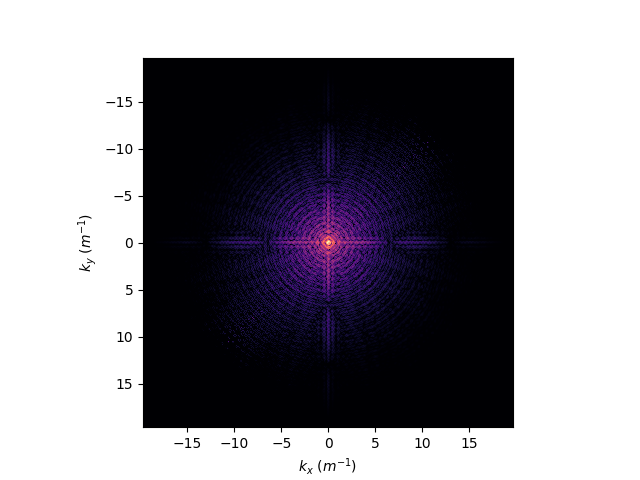
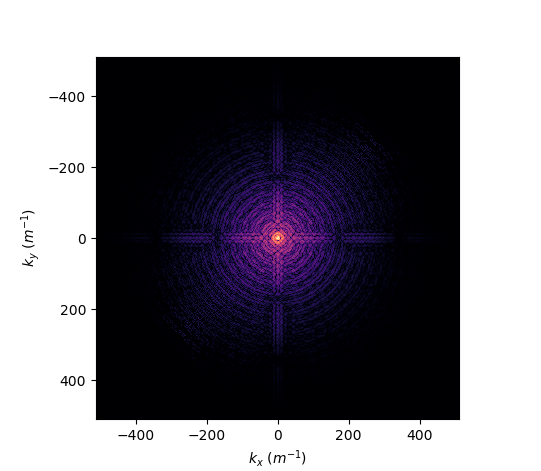
idk some stuff i guess

diff --git a/src/project.py b/src/project.py
@@ -18,7 +18,7 @@ from .modelpf import ModelPupilFunction
 PI     = np.pi
 TWO_PI = 2. * PI
 ps     = 2.  # padding scale factor
-N_samples = 512
+N_samples = 4096
 
 # DIAMETERS ARE IN METERS
 pupil  = SimplePupilFunction(diameter=6.5, samples=N_samples, padscale=ps)
@@ -26,7 +26,7 @@ dirty  = DirtySimplePupilFunction(diameter=6.5, samples=N_samples, padscale=ps)
 caspup = CassegrainPupilFunction(diameter=6.5, b=1.5, samples=N_samples, padscale=ps)
 dcaspf = DirtyCassegrainPupilFunction(diameter=6.5, b=1.5, samples=N_samples, padscale=ps)
 square = SquarePupilFunction(diameter=6.5, samples=N_samples, padscale=ps)
-model  = ModelPupilFunction(diameter=6.5, b=1.5, samples=N_samples, padscale=ps)
+model  = ModelPupilFunction(diameter=.250, b=.110, samples=N_samples, padscale=ps)
 gauss  = GaussianRandomField(pupil, lambda s: np.where(s > 1e-15, (1. / s)**(3.0), 0.))
 
 #### Memory management ####

diff --git a/src/modelpf.py b/src/modelpf.py
@@ -12,7 +12,7 @@ class ModelPupilFunction(AbstractPupilFunction):
     - W(x, y) = 0 for no phase shifting
     '''
 
-    strut_width = 0.05
+    strut_width = 0.04
 
     def pFunc(self, x, y):
         pass1 = np.where((x)**2 + (y)**2 <= (self.radius())**2, 1., 0.)
@@ -23,3 +23,13 @@ class ModelPupilFunction(AbstractPupilFunction):
 
     def wFunc(self, x, y):
         return np.zeros((self.samples, self.samples))
+
+    def coherence_length(self, wav, theta, path=50, cn20=1e-17):
+        '''
+        path:  Path distance through the atmosphere (in km)
+        theta: Zenith angle (0 to π/2)
+        wav:   Wavelength of light (in nm)
+        '''
+
+        a = 0.185
+

diff --git a/src/gaussianrndf.py b/src/gaussianrndf.py
@@ -28,8 +28,13 @@ class GaussianRandomField(object):
     def Pk(self, kx, ky):
         return np.where(kx**2. + ky**2. > 0., (self.Pk2((kx**2. + ky**2.)**0.5))**0.5, 0.0)
 
-    def randomfield(self):
-        noise = fftshift(fft2(np.random.normal(size = (self.samples, self.samples))))
+    def randomfield(self, diameter):
+        r0 = 20e-2 # coherence
+        a  = 0.162
+
+        phase = a * (diameter / r0)**(5/6)
+
+        noise = fftshift(fft2(np.random.normal(size = (self.samples, self.samples), scale=phase)))
         amplitude = self.Pk(self.KX, self.KY)
         
         amplitude = np.where(amplitude > 1e-15, amplitude, 0.)
